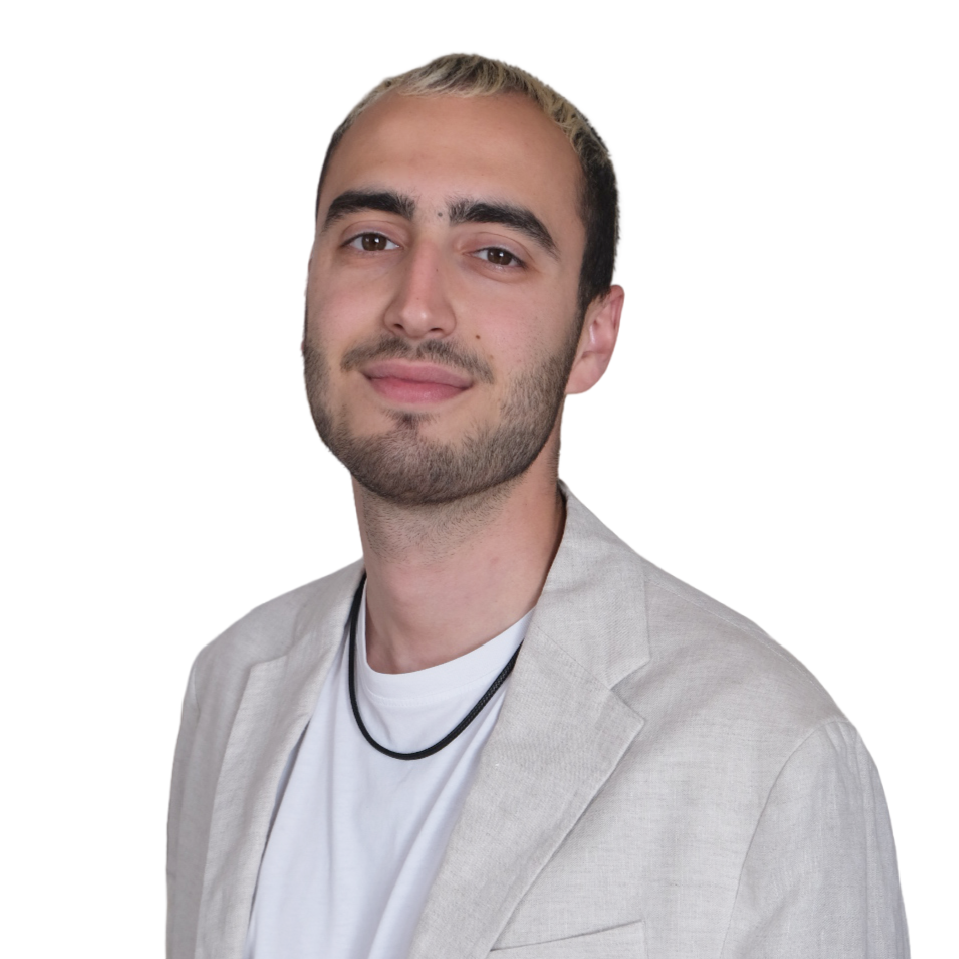
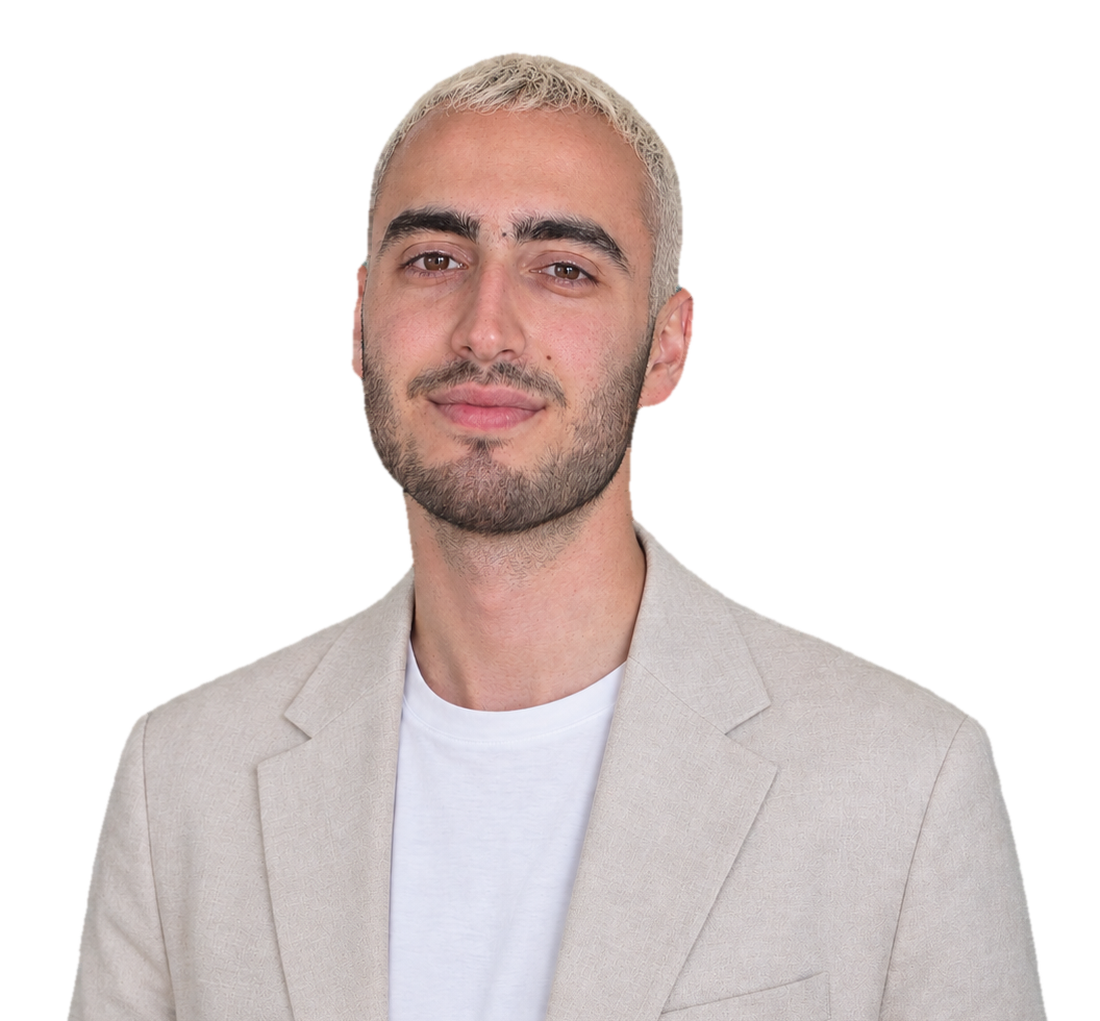
Nuova foto hero, tolto il quadrato a 45°

diff --git a/en.html b/en.html
@@ -242,13 +242,13 @@
 
   .btn-secondary:hover { border-color: var(--accent); color: var(--accent); }
 
-  /* ── HERO: foto scontornata + quadrato 45° (desktop) ── */
+  /* ── HERO: foto scontornata (desktop) ── */
   .hero-photo-desktop {
     position: absolute;
     z-index: 1;
     bottom: 0;
-    right: clamp(1rem, 5vw, 7rem);
-    height: min(82vh, 700px);
+    right: clamp(-2.5vw, calc(50vw - 780px), 10vw);
+    height: min(88vh, 820px);
     pointer-events: none;
   }
 
@@ -258,32 +258,12 @@
     display: block;
   }
 
-  .hero-diamond {
-    position: absolute;
-    z-index: 0;
-    width: clamp(300px, 30vw, 460px);
-    aspect-ratio: 1;
-    right: clamp(3rem, 9vw, 12rem);
-    bottom: 22vh;
-    background: rgba(0, 153, 153, 0.1);    
-    transform: rotate(45deg);
-  }
-
-  /*.hero-diamond::after {
-    content: '';
-    position: absolute;
-    top: -10px;
-    left: -10px;
-    width: 20px;
-    height: 20px;
-    background: var(--accent-mid);
-  }*/
-
   /* foto quadrata con sfondo (solo mobile) */
   .hero-photo-mobile { display: none; }
 
   @media (max-width: 1200px) and (min-width: 861px) {
-    .hero-photo-desktop { height: min(66vh, 560px); right: 2vw; }
+    .hero, .hero-inner { min-height: min(100vh, 720px); }
+    .hero-photo-desktop { height: min(calc(min(100vh, 720px) - 110px), 58vw); right: 0; }
     .hero-left { max-width: 30rem; }
     .hero-title { font-size: clamp(2.5rem, 4.4vw, 3.4rem); }
   }
@@ -993,7 +973,7 @@
 
     .hero { min-height: auto; }
     .hero-inner { flex-direction: column; align-items: stretch; gap: 3rem; min-height: auto; padding-top: 6rem; }
-    .hero-photo-desktop, .hero-diamond { display: none; }
+    .hero-photo-desktop { display: none; }
     .hero-photo-mobile { display: block; width: 100%; aspect-ratio: 1 / 1; overflow: hidden; background: var(--light); }
     .hero-photo-mobile img { width: 100%; height: 100%; object-fit: cover; object-position: center top; display: block; }
     .differenziale-inner { grid-template-columns: 1fr; gap: 2rem; }
@@ -1279,13 +1259,12 @@
 
 <!-- HERO -->
 <div class="hero">
-  <div class="hero-diamond" aria-hidden="true"></div>
   <div class="hero-photo-desktop fade-in" style="transition-delay: 0.15s">
-    <img src="assets/img/DV-Headshot-transparent.png" alt="Davide Valentini" width="959" height="959">
+    <img src="assets/img/DV-Headshot-transparent.png" alt="Davide Valentini" width="1100" height="1021">
   </div>
   <div class="hero-inner">
     <div class="hero-photo-mobile fade-in">
-      <img src="assets/img/DV-Headshot.png" alt="Davide Valentini" width="954" height="954">
+      <img src="assets/img/DV-Headshot.png" alt="Davide Valentini" width="960" height="960">
     </div>
     <div class="hero-left fade-in">
       <p class="hero-label">Brand &amp; Communication Strategist</p>

diff --git a/index.html b/index.html
@@ -242,13 +242,13 @@
 
   .btn-secondary:hover { border-color: var(--accent); color: var(--accent); }
 
-  /* ── HERO: foto scontornata + quadrato 45° (desktop) ── */
+  /* ── HERO: foto scontornata (desktop) ── */
   .hero-photo-desktop {
     position: absolute;
     z-index: 1;
     bottom: 0;
-    right: clamp(1rem, 5vw, 7rem);
-    height: min(82vh, 700px);
+    right: clamp(-2.5vw, calc(50vw - 780px), 10vw);
+    height: min(88vh, 820px);
     pointer-events: none;
   }
 
@@ -258,32 +258,12 @@
     display: block;
   }
 
-  .hero-diamond {
-    position: absolute;
-    z-index: 0;
-    width: clamp(300px, 30vw, 460px);
-    aspect-ratio: 1;
-    right: clamp(3rem, 9vw, 12rem);
-    bottom: 22vh;
-    background: rgba(0, 153, 153, 0.1);    
-    transform: rotate(45deg);
-  }
-
-  /*.hero-diamond::after {
-    content: '';
-    position: absolute;
-    top: -10px;
-    left: -10px;
-    width: 20px;
-    height: 20px;
-    background: var(--accent-mid);
-  }*/
-
   /* foto quadrata con sfondo (solo mobile) */
   .hero-photo-mobile { display: none; }
 
   @media (max-width: 1200px) and (min-width: 861px) {
-    .hero-photo-desktop { height: min(66vh, 560px); right: 2vw; }
+    .hero, .hero-inner { min-height: min(100vh, 720px); }
+    .hero-photo-desktop { height: min(calc(min(100vh, 720px) - 110px), 58vw); right: 0; }
     .hero-left { max-width: 30rem; }
     .hero-title { font-size: clamp(2.5rem, 4.4vw, 3.4rem); }
   }
@@ -993,7 +973,7 @@
 
     .hero { min-height: auto; }
     .hero-inner { flex-direction: column; align-items: stretch; gap: 3rem; min-height: auto; padding-top: 6rem; }
-    .hero-photo-desktop, .hero-diamond { display: none; }
+    .hero-photo-desktop { display: none; }
     .hero-photo-mobile { display: block; width: 100%; aspect-ratio: 1 / 1; overflow: hidden; background: var(--light); }
     .hero-photo-mobile img { width: 100%; height: 100%; object-fit: cover; object-position: center top; display: block; }
     .differenziale-inner { grid-template-columns: 1fr; gap: 2rem; }
@@ -1270,13 +1250,12 @@
 
 <!-- HERO -->
 <div class="hero">
-  <div class="hero-diamond" aria-hidden="true"></div>
   <div class="hero-photo-desktop fade-in" style="transition-delay: 0.15s">
-    <img src="assets/img/DV-Headshot-transparent.png" alt="Davide Valentini" width="959" height="959">
+    <img src="assets/img/DV-Headshot-transparent.png" alt="Davide Valentini" width="1100" height="1021">
   </div>
   <div class="hero-inner">
     <div class="hero-photo-mobile fade-in">
-      <img src="assets/img/DV-Headshot.png" alt="Davide Valentini" width="954" height="954">
+      <img src="assets/img/DV-Headshot.png" alt="Davide Valentini" width="960" height="960">
     </div>
     <div class="hero-left fade-in">
       <p class="hero-label">Brand &amp; Communication Strategist</p>
